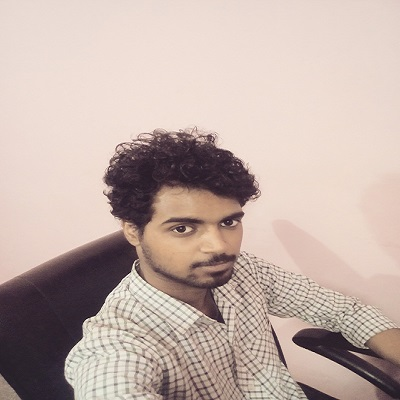
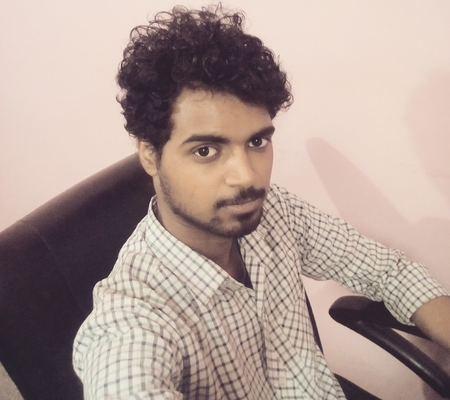
about me integrated

diff --git a/distribution/index.html b/distribution/index.html
@@ -65,9 +65,10 @@
         </header>
         <div class="row">
           <div data-animate="fadeInUp" class="col-lg-6">
-            <p>An sincerity so extremity he additions. Her yet <strong>there truth merit</strong>. Mrs all projecting favourable now unpleasing. Son law garden chatty temper. Oh children provided to mr elegance marriage strongly. Off can admiration prosperous now devonshire diminution law.</p>
-            <p>Received overcame oh sensible so at an. Formed do change merely to county it. <strong>Am separate contempt</strong> domestic to to oh. On relation my so addition branched. Put hearing cottage she norland letters equally prepare too. Replied exposed savings he no viewing as up. Soon body add him hill. No father living really people estate if. Mistake do produce beloved demesne if am pursuit.</p>
-            <p>An sincerity so extremity he additions. Her yet <strong>there truth merit</strong>. Mrs all projecting favourable now unpleasing. Son law garden chatty temper. Oh children provided to mr elegance marriage strongly. Off can admiration prosperous now devonshire diminution law.</p>
+            <p><strong>Hi, I'm Abhishek Rai, an excitable front-end web developer, with some full-stack chops, too. I live with an intense passion for web development</strong>.</p>
+            <p>I've been obsessed with learning about the latest and greatest in web development.</p>
+            <p>Most days, I'm digging into a <strong>Angular</strong>  web app, setting up a <strong>.net API</strong>, or marking up an elegant interface. I also play nicely with <strong>Node.js</strong>, <strong>MySql</strong>, and find it absolutely esssential to work with build tools like Webpack and Parcel. Some of my favorites: test-driving development, thoroughly architecting a <strong>RESTful API</strong>, or planning and creating an elegant user interface to solve a Client's business objective.</p>
+         <p>I also like to Plan, build, and deploy <Strong> single-page web applications</Strong> from the ground up.</p>
           </div>
           <div data-animate="fadeInUp" class="col-lg-6">
             <div class="skill-item">
@@ -101,7 +102,7 @@
               </div>
             </div>
           </div>
-          <div data-animate="fadeInUp" class="col-sm-6 mx-auto mt-5"><img src="img/about.jpg" alt="This is me - IT worker" class="image rounded-circle img-fluid"></div>
+          <div data-animate="fadeInUp" class="col-sm-6 mx-auto mt-5"><img src="img/about1.jpg" alt="This is me - IT worker" class="image rounded-circle img-fluid"></div>
         </div>
       </div>
     </section>
